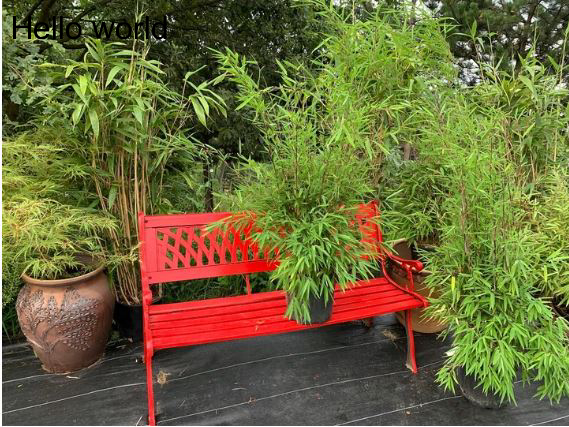
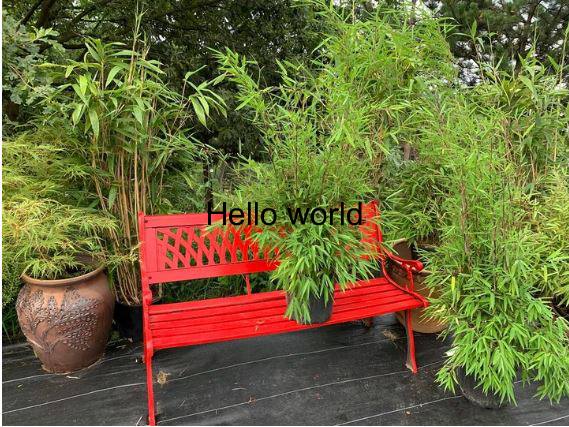
Add watermarks adding

Changed region(s): [[0.0, 0.0304, 0.2988, 0.0913], [0.3585, 0.4567, 0.6573, 0.548]]

diff --git a/app.js b/app.js
@@ -1,10 +1,32 @@
 const Jimp = require('jimp');
+const inquirer = require('inquirer');
 
 const addTextWatermarkToImage = async function(inputFile, outputFile, text) {
   const image = await Jimp.read(inputFile);
   const font = await Jimp.loadFont(Jimp.FONT_SANS_32_BLACK);
-  image.print(font, 10, 10, text);
+  const textData = {
+    text,
+    alignmentX: Jimp.HORIZONTAL_ALIGN_CENTER,
+    alignmentY: Jimp.VERTICAL_ALIGN_MIDDLE,
+  };
+
+  image.print(font, 0, 0, textData, image.getWidth(), image.getHeight());
   await image.quality(100).writeAsync(outputFile);
 };
 
-addTextWatermarkToImage('./test.jpg', './test-with-watermark.jpg', 'Hello world')
+// addTextWatermarkToImage('./test.jpg', './test-with-watermark.jpg', 'Hello world')
+
+const addImageWatermarkToImage = async function(inputFile, outputFile, watermarkFile) {
+  const image = await Jimp.read(inputFile);
+  const watermark = await Jimp.read(watermarkFile);
+  const x = image.getWidth() / 2 - watermark.getWidth() / 2;
+  const y = image.getHeight() / 2 - watermark.getHeight() / 2;
+
+  image.composite(watermark, x, y, {
+    mode: Jimp.BLEND_SOURCE_OVER,
+    opacitySource: 0.5,
+  });
+  await image.quality(100).writeAsync(outputFile);
+};
+
+addImageWatermarkToImage('./test.jpg', './test-with-watermark2.jpg', './logo.png');
